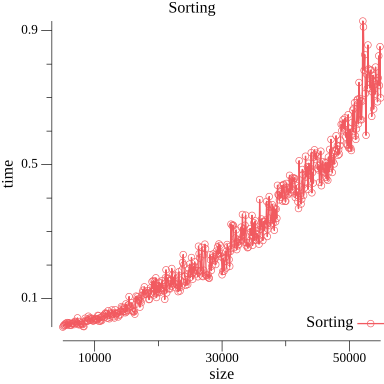
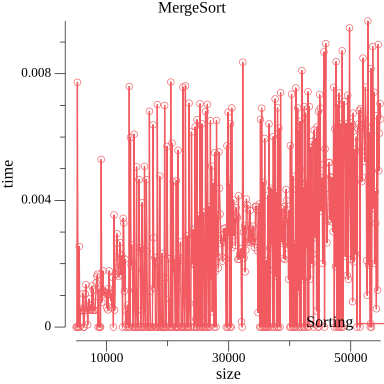
added merge sort

diff --git a/main.go b/main.go
@@ -58,6 +58,10 @@ func PlotPoints(timegraph []float64, input []int64) plotter.XYs {
 }
 
 func main() {
+	// d := utils.GetArray(10)
+	// r := sorting.MergeSort(d)
+	// fmt.Println(r)
+	// return
 
 	rows := utils.GetInputForGraph()
 	timegraph := []float64{}
@@ -65,12 +69,12 @@ func main() {
 	for _, row := range rows {
 		started := time.Now()
 		inputrow = append(inputrow, int64(len(row)))
-		sorting.Insertion(row)
+		sorting.MergeSort(row)
 		ended := time.Now()
 		duration := ended.Sub(started)
 		timegraph = append(timegraph, duration.Seconds())
 		fmt.Println(duration.Seconds())
 	}
 
-	Plotter("Sorting", timegraph, inputrow)
+	Plotter("MergeSort", timegraph, inputrow)
 }

diff --git a/sorting/sorting.go b/sorting/sorting.go
@@ -12,3 +12,35 @@ func Insertion(A []int64) []int64 {
 	}
 	return A
 }
+
+func MergeSort(arr []int64) []int64 {
+	if len(arr) <= 1 {
+		return arr
+	}
+
+	mid := len(arr) / 2
+	left := MergeSort(arr[:mid])
+	right := MergeSort(arr[mid:])
+
+	return merge(left, right)
+}
+
+func merge(left, right []int64) []int64 {
+	result := make([]int64, 0, len(left)+len(right))
+	i, j := 0, 0
+
+	for i < len(left) && j < len(right) {
+		if left[i] < right[j] {
+			result = append(result, left[i])
+			i++
+		} else {
+			result = append(result, right[j])
+			j++
+		}
+	}
+
+	result = append(result, left[i:]...)
+	result = append(result, right[j:]...)
+
+	return result
+}
